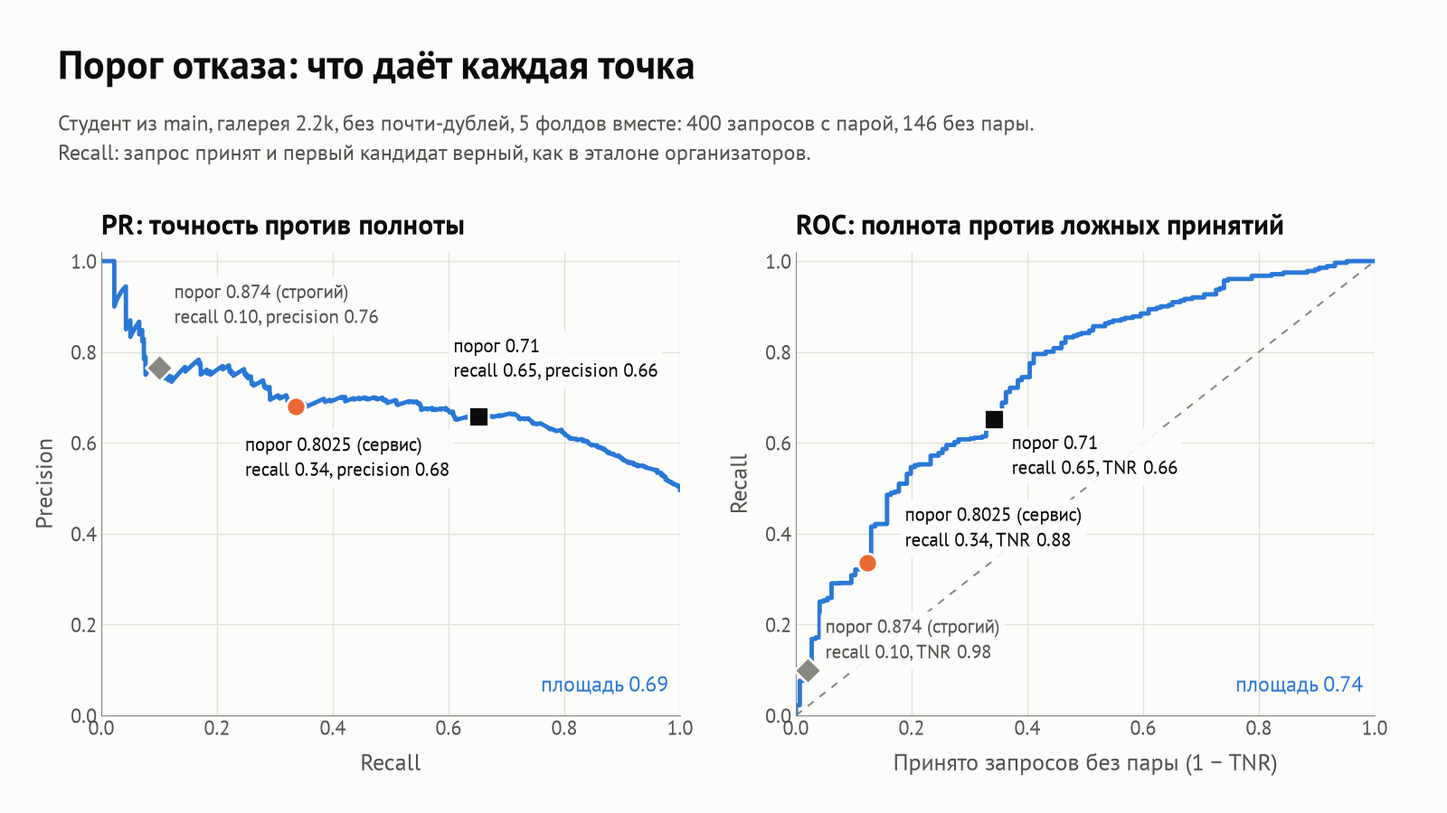
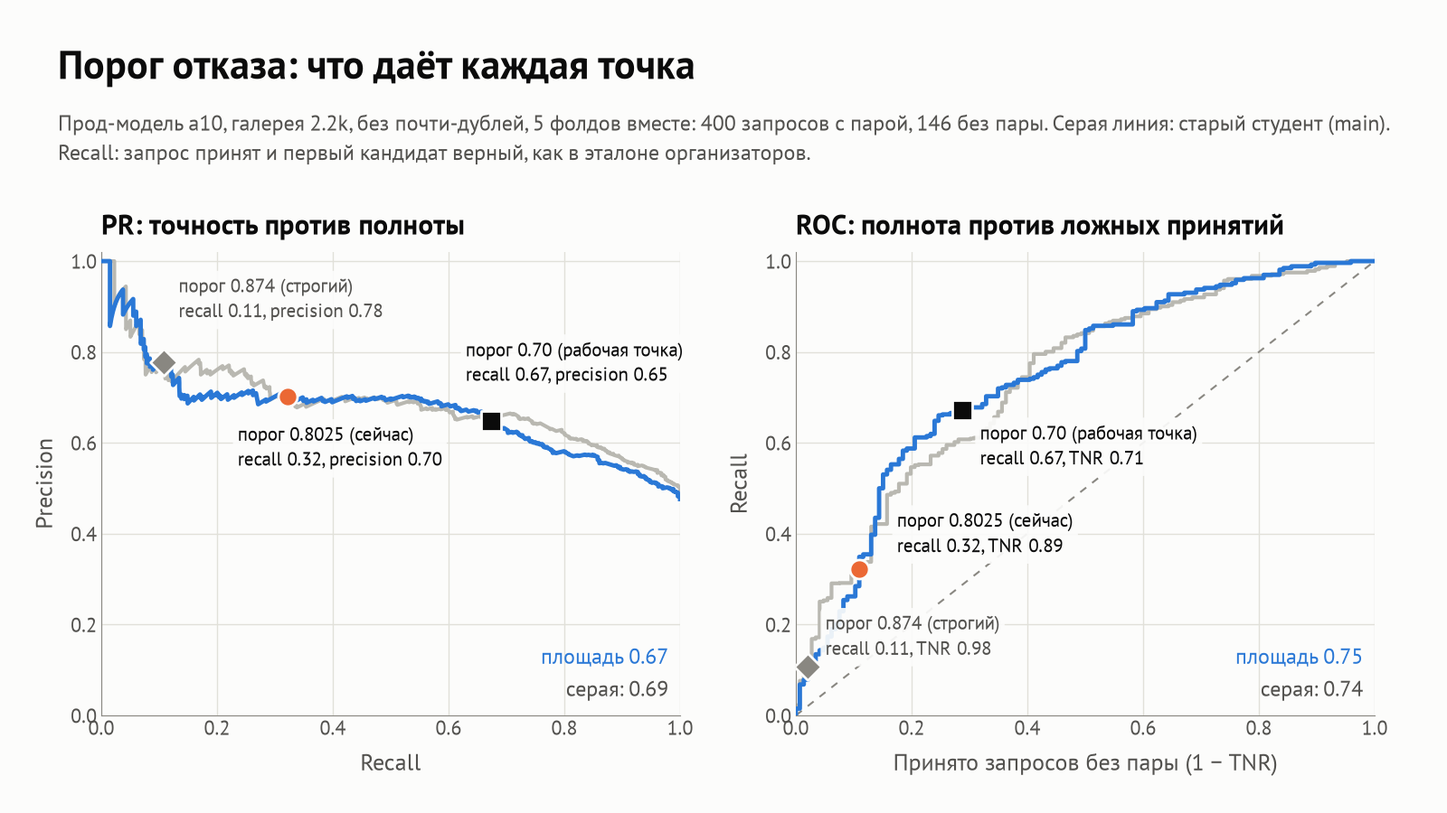
honest-eval: рабочая точка отказа a10, слайд и PR/ROC под a10 (пункт 2)
refusal_curves.py: --label, --point ПОРОГ=ПОДПИСЬ, вторая модель серой
линией (--baseline-label/--baseline-env); без параметров результат прежний
(точки старого студента совпали с прошлым JSON).

refusal_pr_roc.png — a10, старый студент серой линией: 0.8025 — recall
0.32 / TNR 0.89; 0.70 (рабочая точка) — 0.67 / 0.71; 0.874 — 0.11 / 0.98.
slides.md: слайд 4 — прод-модель a10 (порог вне фолда 0.700 ± 0.050,
на 0.70 recall 0.672 / TNR 0.711, у старого 0.691 / 0.632; на 10.8k тот же
порог даёт TNR 0.298). HONEST_EVAL.md: итоги a10.

diff --git a/research/refusal_curves.py b/research/refusal_curves.py
@@ -5,9 +5,13 @@
 семантика эталона, TP = принят И верхний кандидат верный, TNR — по запросам
 без пары. ROC: по горизонтали доля принятых запросов без пары (1 − TNR), по
 вертикали recall. Кривые и точки посчитаны по всем фолдам сразу; средние по
-фолдам — в honest_eval_results/refusal_folds.json.
+фолдам — в honest_eval_results/refusal_folds*.json.
 
+    # студент из main, точки 0.8025 / 0.71 / 0.874
     python research/refusal_curves.py --data-dir /opt/case17/data
+    # другая модель, свои точки, старый студент серой линией
+    python research/refusal_curves.py --data-dir <данные> --env REID_WEIGHTS=<веса> --label "a10" \\
+        --point "0.8025=порог 0.8025 (сейчас)" --point "0.70=порог 0.70" --baseline-label "старый студент (main)"
 """
 import argparse
 import json
@@ -26,12 +30,11 @@ import honest_eval as he  # noqa: E402
 import service_embeddings as se  # noqa: E402
 
 SURFACE, INK, INK2, MUTED, GRID = "#fcfcfb", "#0b0b0b", "#52514e", "#898781", "#e1e0d9"
-CURVE, NOW = "#2a78d6", "#eb6834"
+CURVE, NOW, BASE = "#2a78d6", "#eb6834", "#b9b8b1"
 FONT = "PT Sans"
-# порог, подпись, цвет, маркер, сдвиг подписи на PR и на ROC (точки экрана)
-POINTS = ((0.8025, "порог 0.8025 (сервис)", NOW, "o", (-40, -22), (30, 8)),
-          (0.71, "порог 0.71", INK, "s", (-20, 26), (14, -10)),
-          (0.874, "порог 0.874 (строгий)", MUTED, "D", (12, 30), (14, 4)))
+DEFAULT_POINTS = ("0.8025=порог 0.8025 (сервис)", "0.71=порог 0.71", "0.874=порог 0.874 (строгий)")
+# цвет, маркер и сдвиг подписи на PR и на ROC (точки экрана) — по порядку точек
+STYLE = ((NOW, "o", (-40, -22), (30, 8)), (INK, "s", (-20, 26), (14, -10)), (MUTED, "D", (12, 30), (14, 4)))
 
 
 def curve(rec: dict) -> list:
@@ -44,11 +47,30 @@ def area(x, y) -> float:
     return float(np.trapezoid(np.asarray(y)[order], np.asarray(x)[order]))
 
 
+def records(a) -> dict:
+    D = he.Data(a)
+    recs = crf.fold_records(D, a.distractors, "nodup")
+    crf.self_check(recs, 0.8025)
+    return crf.merge(recs), len(recs)
+
+
+def arrays(rec: dict) -> tuple:
+    pts = curve(rec)
+    r, p, t = (np.array([x[k] for x in pts], dtype="float64") for k in ("recall", "precision", "TNR"))
+    return r, p, 1 - t
+
+
 def main() -> int:
     ap = argparse.ArgumentParser()
     ap.add_argument("--data-dir", type=Path, required=True)
     ap.add_argument("--distractors", default="test_all", choices=tuple(he.DISTRACTORS))
     ap.add_argument("--out", type=Path, default=HERE / "honest_eval_results" / "refusal_pr_roc.png")
+    ap.add_argument("--label", default="Студент из main", help="как назвать модель в заголовке")
+    ap.add_argument("--point", action="append", default=None, metavar="ПОРОГ=ПОДПИСЬ",
+                    help=f"точка на кривых, до трёх; по умолчанию {DEFAULT_POINTS}")
+    ap.add_argument("--baseline-label", default=None,
+                    help="нарисовать вторую модель серой линией (окружение — профиль + --baseline-env)")
+    ap.add_argument("--baseline-env", action="append", default=[], help="KEY=VAL для серой модели")
     ap.add_argument("--holdout", type=Path, default=HERE / "val_ids.txt")
     ap.add_argument("--exclude-frames", type=Path, default=HERE / "honest_eval_results" / "holdout_frame_dups.txt")
     ap.add_argument("--folds", type=int, default=5)
@@ -64,29 +86,38 @@ def main() -> int:
     ap.add_argument("--one-query-per-camera", action="store_true")
     ap.add_argument("--cache-dir", type=Path, default=se.DEFAULT_CACHE)
     a = ap.parse_args()
+    specs = []
+    for kv in a.point or DEFAULT_POINTS:
+        thr, _, label = kv.partition("=")
+        specs.append((float(thr), label or f"порог {thr}"))
+    if len(specs) > len(STYLE):
+        ap.error(f"не больше {len(STYLE)} точек")
 
-    D = he.Data(a)
-    recs = crf.fold_records(D, a.distractors, "nodup")
-    crf.self_check(recs, 0.8025)
-    rec = crf.merge(recs)
-    pts = curve(rec)
-    rec_, prec, tnr = (np.array([p[k] for p in pts], dtype="float64") for k in ("recall", "precision", "TNR"))
-    fpr = 1 - tnr
-    roc_auc = area(fpr, rec_)
-    pr_auc = area(rec_[1:], prec[1:])           # без точки «ничего не принято»: precision там не определён
-    marks = {t: crf.metrics(rec, t) for t, *_ in POINTS}
+    rec, n_folds = records(a)
+    rec_, prec, fpr = arrays(rec)
+    roc_auc, pr_auc = area(fpr, rec_), area(rec_[1:], prec[1:])   # PR без точки «ничего не принято»
+    base = None
+    if a.baseline_label:
+        b = argparse.Namespace(**{**vars(a), "env": a.baseline_env})
+        brec, _ = records(b)
+        br, bp, bf = arrays(brec)
+        base = {"label": a.baseline_label, "r": br, "p": bp, "f": bf,
+                "ROC_area": area(bf, br), "PR_area": area(br[1:], bp[1:])}
+    marks = {t: crf.metrics(rec, t) for t, _ in specs}
     n_pos, n_neg = int(rec["has_match"].sum()), int((~rec["has_match"]).sum())
 
     fig = plt.figure(figsize=(16, 9), dpi=100, facecolor=SURFACE)
     fig.text(0.04, 0.94, "Порог отказа: что даёт каждая точка", fontsize=32, color=INK, family=FONT,
              weight="bold", va="top")
-    fig.text(0.04, 0.865, f"Студент из main, галерея 2.2k, без почти-дублей, 5 фолдов вместе: {n_pos} запросов "
-             f"с парой, {n_neg} без пары.\nRecall: запрос принят и первый кандидат верный, как в эталоне "
+    tail = f" Серая линия: {base['label']}." if base else ""
+    fig.text(0.04, 0.865, f"{a.label}, галерея 2.2k, без почти-дублей, {n_folds} фолдов вместе: {n_pos} запросов "
+             f"с парой, {n_neg} без пары.{tail}\nRecall: запрос принят и первый кандидат верный, как в эталоне "
              "организаторов.", fontsize=17, color=INK2, family=FONT, va="top", linespacing=1.4)
-    panels = (("PR: точность против полноты", rec_[1:], prec[1:], "Recall", "Precision", f"площадь {pr_auc:.2f}"),
+    panels = (("PR: точность против полноты", rec_[1:], prec[1:], "Recall", "Precision", pr_auc,
+               (base["r"][1:], base["p"][1:], base["PR_area"]) if base else None),
               ("ROC: полнота против ложных принятий", fpr, rec_, "Принято запросов без пары (1 − TNR)",
-               "Recall", f"площадь {roc_auc:.2f}"))
-    for k, (title, x, y, xl, yl, auc) in enumerate(panels):
+               "Recall", roc_auc, (base["f"], base["r"], base["ROC_area"]) if base else None))
+    for k, (title, x, y, xl, yl, auc, b) in enumerate(panels):
         ax = fig.add_axes([0.07 + k * 0.48, 0.12, 0.4, 0.57])
         ax.set_facecolor(SURFACE)
         ax.grid(color=GRID, linewidth=1)
@@ -100,15 +131,20 @@ def main() -> int:
             lab.set_family(FONT)
         if k == 1:
             ax.plot([0, 1], [0, 1], color=MUTED, lw=1.5, ls=(0, (4, 4)))
-        ax.plot(x, y, color=CURVE, lw=3.5, drawstyle="steps-post" if k == 1 else "default")
+        if b:
+            ax.plot(b[0], b[1], color=BASE, lw=3, drawstyle="steps-post" if k == 1 else "default", zorder=2)
+        ax.plot(x, y, color=CURVE, lw=3.5, drawstyle="steps-post" if k == 1 else "default", zorder=3)
         ax.set_xlim(0, 1.0)
         ax.set_ylim(0, 1.02)
         ax.set_xlabel(xl, fontsize=19, color=INK2, family=FONT, labelpad=10)
         ax.set_ylabel(yl, fontsize=19, color=INK2, family=FONT, labelpad=10)
         ax.set_title(title, fontsize=22, color=INK, family=FONT, weight="bold", loc="left", pad=14)
-        ax.text(0.98, 0.04, auc, transform=ax.transAxes, fontsize=17, color=CURVE, family=FONT,
-                ha="right", va="bottom")
-        for t, label, color, marker, off_pr, off_roc in POINTS:
+        ax.text(0.98, 0.1 if b else 0.04, f"площадь {auc:.2f}", transform=ax.transAxes, fontsize=17, color=CURVE,
+                family=FONT, ha="right", va="bottom")
+        if b:
+            ax.text(0.98, 0.03, f"серая: {b[2]:.2f}", transform=ax.transAxes, fontsize=17, color=INK2,
+                    family=FONT, ha="right", va="bottom")
+        for (t, label), (color, marker, off_pr, off_roc) in zip(specs, STYLE):
             m = marks[t]
             px, py = (m["recall"], m["precision"]) if k == 0 else (1 - m["TNR"], m["recall"])
             ax.scatter([px], [py], s=230, color=color, marker=marker, zorder=5, edgecolor=SURFACE, linewidth=2)
@@ -121,10 +157,14 @@ def main() -> int:
     a.out.parent.mkdir(parents=True, exist_ok=True)
     fig.savefig(a.out, dpi=100, facecolor=SURFACE)
     plt.close(fig)
-    summary = {"mode": "nodup", "distractors": a.distractors, "pooled_folds": len(recs), "queries_with_pair": n_pos,
-               "queries_without_pair": n_neg, "PR_area": round(pr_auc, 4), "ROC_area": round(roc_auc, 4),
+    summary = {"model": a.label, "mode": "nodup", "distractors": a.distractors, "pooled_folds": n_folds,
+               "queries_with_pair": n_pos, "queries_without_pair": n_neg,
+               "PR_area": round(pr_auc, 4), "ROC_area": round(roc_auc, 4),
                "points": {str(t): {k: (round(v, 4) if isinstance(v, float) else v) for k, v in marks[t].items()}
-                          for t, *_ in POINTS}}
+                          for t, _ in specs}}
+    if base:
+        summary["baseline"] = {"label": base["label"], "PR_area": round(base["PR_area"], 4),
+                               "ROC_area": round(base["ROC_area"], 4)}
     a.out.with_suffix(".json").write_text(json.dumps(summary, ensure_ascii=False, indent=2), encoding="utf-8")
     print(json.dumps(summary, ensure_ascii=False, indent=2))
     print(f"-> {a.out} ({a.out.stat().st_size / 1e6:.2f} МБ)")

diff --git a/research/honest_eval_slides.py b/research/honest_eval_slides.py
@@ -138,17 +138,22 @@ def slides(pts: list) -> str:
     sc = load("score_contract.json")
     leak = load("leak_audit.json")
     err = load("error_breakdown.json")
-    ref = load("refusal_folds.json")["modes"]["nodup"]
-    roc = load("refusal_pr_roc.json")
+    ref = load("refusal_folds_a10.json")["modes"]["nodup"]           # прод-модель a10
+    ref_old = load("refusal_folds_student_rk.json")["modes"]["nodup"]  # студент из main, те же точки
+    roc = load("refusal_pr_roc.json")                                  # a10, старый — серой линией
+    prod = load("honest_eval_a10_suite.json")["suite"]
+    grid = load("knn_grid_a10.json")["rows"]["raw"]
     sub = {g["group"]: g for g in err["subgroups"]}
     means = lambda c: {k: v["mean"] for k, v in c.items()}           # среднее по фолдам
     svc_off = means(sc["modes"]["official"]["contracts"]["service (raw, 0.8025)"])
     svc_nod = means(sc["modes"]["nodup"]["contracts"]["service (raw, 0.8025)"])
     mixed = means(sc["modes"]["nodup"]["contracts"]["mixed (CSLS, 0.8025)"])
     art = means(sc["modes"]["nodup"]["contracts"]["artifacts (CSLS, 10-й процентиль)"])
-    cur = ref["current"]["сбалансированный 0.8025"]
-    t6, t7 = ref["targets"]["recall>=0.6"], ref["targets"]["recall>=0.7"]
-    p71, p80 = roc["points"]["0.71"], roc["points"]["0.8025"]
+    cur, cur_old = ref["current"]["сбалансированный 0.8025"], ref_old["current"]["сбалансированный 0.8025"]
+    t65, t7 = ref["targets"]["recall>=0.65"], ref["targets"]["recall>=0.7"]
+    work, work_old = ref["current"]["рабочая точка 0.70"], ref_old["current"]["рабочая точка 0.70"]
+    p70, p80 = roc["points"]["0.7"], roc["points"]["0.8025"]
+    p10 = lambda key, v="raw": prod[key]["metrics"][v]["official"]["mAP@10"]
     old = st["old_protocol"]
     ec = err["errors_by_category"]
     n_f = err["errors"]
@@ -163,7 +168,8 @@ def slides(pts: list) -> str:
     return "\n".join([
         "# Слайды: честная валидация", "",
         "Числа подставлены из файлов `research/honest_eval_results/` скриптом "
-        "`research/honest_eval_slides.py`; модель — студент из `main`, сырой косинус, если не сказано иначе.", "",
+        "`research/honest_eval_slides.py`; слайды 1–3 — студент из `main` (его мерили эксперты), слайд 4 — "
+        "прод-модель a10; сырой косинус, если не сказано иначе.", "",
         "## 1. Честная валидация", "",
         f"- Метрики считает эталон организаторов без правок: junk — та же машина с той же камеры, "
         f"AP@10 нормирован на min(позитивов, 10).",
@@ -211,19 +217,26 @@ def slides(pts: list) -> str:
         "выше порога 0.8025.", "",
         "Картинки (номера закрыты): `honest_eval_results/error_examples/fail_1_twin.png`, "
         "`fail_2_front_rear.png`, `fail_4_night.png`, `fail_5_glare.png`", "",
-        "## 4. Рабочая точка отказа", "",
-        f"- Сейчас 0.8025: recall {f3(cur['recall']['mean'])}, TNR {f3(cur['TNR']['mean'])} (2.2k без почти-дублей, "
-        f"среднее {cur['recall']['n']} фолдов).",
-        f"- Порог, выбранный на одном фолде и проверенный на остальных: recall ≥ 0.6 → "
-        f"{f3(t6['threshold']['mean'])} ± {f3(t6['threshold']['std'])} (TNR {f3(t6['TNR']['mean'])}); "
-        f"recall ≥ 0.7 → {f3(t7['threshold']['mean'])} ± {f3(t7['threshold']['std'])} (TNR {f3(t7['TNR']['mean'])}).",
-        f"- Выбранная точка 0.71, между ними: recall {f2(p71['recall'])}, TNR {f2(p71['TNR'])}, precision "
-        f"{f2(p71['precision'])}. По тем же запросам (все фолды вместе) у 0.8025 recall {f2(p80['recall'])}, "
-        f"TNR {f2(p80['TNR'])}: найденных машин в {p71['recall'] / p80['recall']:.1f} раза больше ценой "
-        f"{f2(p80['TNR'] - p71['TNR'])} TNR.",
-        "- Порог привязан к модели: для прод-модели a10 точку пересчитать той же командой "
-        "(`scripts/prod_model_check.sh`, a10 ещё не промерен).", "",
-        "Картинка: `honest_eval_results/refusal_pr_roc.png`", ""])
+        "## 4. Рабочая точка отказа (прод-модель a10)", "",
+        f"- a10 по ранжированию на уровне старого студента: mAP@10 raw 2.2k {f3(p10('2.2k (+ весь тест)')['mean'])}, "
+        f"10.8k {f3(p10('10.8k (+ тест и обучающие)')['mean'])} (у старого {f3(big['raw']['official']['mAP@10']['mean'])} "
+        f"и {f3(last['map'])}). Сейчас 0.8025: recall {f3(cur['recall']['mean'])}, TNR {f3(cur['TNR']['mean'])} "
+        f"(2.2k без почти-дублей, среднее {cur['recall']['n']} фолдов; у старого {f3(cur_old['recall']['mean'])} / "
+        f"{f3(cur_old['TNR']['mean'])}).",
+        f"- Порог вне фолда (выбран на одном фолде, проверен на остальных): recall ≥ 0.65 → "
+        f"{f3(t65['threshold']['mean'])} ± {f3(t65['threshold']['std'])} (TNR {f3(t65['TNR']['mean'])}); "
+        f"recall ≥ 0.7 → {f3(t7['threshold']['mean'])} ± {f3(t7['threshold']['std'])} (TNR {f3(t7['TNR']['mean'])}). "
+        "Рабочая точка — 0.70: в полосе recall 0.65–0.70 у неё выше TNR.",
+        f"- На 0.70: recall {f3(work['recall']['mean'])}, TNR {f3(work['TNR']['mean'])} (у старого студента на том же "
+        f"пороге {f3(work_old['recall']['mean'])} / {f3(work_old['TNR']['mean'])}). По всем фолдам вместе против "
+        f"0.8025: recall {f2(p70['recall'])} против {f2(p80['recall'])}, в {p70['recall'] / p80['recall']:.1f} раза "
+        f"больше найденных машин ценой {f2(p80['TNR'] - p70['TNR'])} TNR.",
+        f"- Порог зависит от размера галереи: на 10.8k тот же 0.70 даёт TNR {f3(grid['10.8k']['TNR'])} "
+        f"(`knn_grid_a10.md`, строка raw), 0.8025 — "
+        f"{f3(prod['10.8k (+ тест и обучающие)']['metrics']['raw']['nodup']['TNR']['mean'])}. Для прода порог "
+        "проверять на галерее его размера.", "",
+        "Картинка: `honest_eval_results/refusal_pr_roc.png` (a10, старый студент — серой линией); таблица — "
+        "`honest_eval_results/prod_a10.md`", ""])
 
 
 def main() -> int:

diff --git a/research/HONEST_EVAL.md b/research/HONEST_EVAL.md
@@ -60,8 +60,8 @@ PYTHON=<python окружения> scripts/prod_model_check.sh <данные> ~/
 совпадения не считает. Дальше: сюита raw и kr, отказ на 2.2k без почти-дублей
 вне фолда (0.8025, recall ≥ 0.6 и ≥ 0.7), таблица рядом со старым студентом
 (`honest_eval_report.py --prod`). `-n` — только сверить и показать команды.
-17.10 файла `clean_student_a10_ep28.pt` локально нет (в `clean_student.zip` его
-тоже нет), a10 пока не промерен.
+Прод-модель a10 промерена 17.10 (sha256 совпал): `prod_a10.md`; сетка knn для
+неё — `knn_grid_a10.md` (`python research/knn_grid.py ...`).
 
 ### Как Андрею сравнить raw и KNN одной командой
 
@@ -121,9 +121,10 @@ python research/honest_eval.py --data-dir <данные> --suite --post raw,knn 
   **recall 0.34 / TNR 0.88** (2.2k), 0.35 / 0.58 (10.8k).
 - **Порог вне фолда (2.2k, без почти-дублей):** recall ≥ 0.6 → порог
   0.726 ± 0.041, TNR 0.735; recall ≥ 0.7 → 0.689 ± 0.044, TNR 0.623. На 0.71 —
-  recall 0.65 / TNR 0.66 / precision 0.66 (`refusal_pr_roc.png`). Предложение для
-  защиты — рабочая точка около 0.72 вместо 0.8025; решение и правка
-  `.env.example` за Глебом.
+  recall 0.65 / TNR 0.66 / precision 0.66 (все фолды вместе; `refusal_pr_roc.png`
+  теперь нарисован для a10, старый студент на нём серой линией). Для прод-модели
+  a10 рабочая точка — 0.70 (ниже, `prod_a10.md`); решение и правка `.env.example`
+  за Глебом.
 - **Score-контракт.** Порог 0.8025 — для сырого косинуса. На CSLS-скоре
   `candidates.csv` (максимум на тесте 0.506) он отказывает всем: recall 0,
   TNR 1 (`score_contract.md`). Это прямой путь к «recall < 10 %».
@@ -140,7 +141,13 @@ python research/honest_eval.py --data-dir <данные> --suite --post raw,knn 
   чёрные машины 0.536 против 0.939 у цветных. Мелкая рамка не проблема (3 %).
 - **Новый студент clean a25** (`clean_student_check.md`): по сырому косинусу не
   лучше старого (2.2k 0.693, 10.8k 0.545), с rerank чуть лучше (0.820, 0.761).
-  Выбранный командой a10 не промерен: файла не было, Максим меряет сам.
+- **Прод-модель clean a10** (`prod_a10.md`): ранжирование на уровне старого
+  студента (raw 2.2k 0.687 против 0.704, 8996 0.563 против 0.553, 10.8k 0.549
+  против 0.559 — в пределах разброса фолдов). Рабочая точка отказа a10 — порог
+  0.70 (цель recall ≥ 0.65 вне фолда: 0.700 ± 0.050): recall 0.672, TNR 0.711 на
+  2.2k без почти-дублей; при 0.8025 — 0.323 / 0.889. На 10.8k тот же порог даёт
+  TNR 0.298: порог надо проверять на галерее размера прода. knn (k ∈ {2, 3, 5},
+  α ∈ {1, 3}) на a10 не помогает ни в одной клетке (`knn_grid_a10.md`).
 
 ## Воспроизводимость (`scripts/check_reproducibility.sh`)
 

diff --git a/research/honest_eval_results/slides.md b/research/honest_eval_results/slides.md
@@ -1,6 +1,6 @@
 # Слайды: честная валидация
 
-Числа подставлены из файлов `research/honest_eval_results/` скриптом `research/honest_eval_slides.py`; модель — студент из `main`, сырой косинус, если не сказано иначе.
+Числа подставлены из файлов `research/honest_eval_results/` скриптом `research/honest_eval_slides.py`; слайды 1–3 — студент из `main` (его мерили эксперты), слайд 4 — прод-модель a10; сырой косинус, если не сказано иначе.
 
 ## 1. Честная валидация
 
@@ -29,11 +29,11 @@
 
 Картинки (номера закрыты): `honest_eval_results/error_examples/fail_1_twin.png`, `fail_2_front_rear.png`, `fail_4_night.png`, `fail_5_glare.png`
 
-## 4. Рабочая точка отказа
+## 4. Рабочая точка отказа (прод-модель a10)
 
-- Сейчас 0.8025: recall 0.340, TNR 0.877 (2.2k без почти-дублей, среднее 5 фолдов).
-- Порог, выбранный на одном фолде и проверенный на остальных: recall ≥ 0.6 → 0.726 ± 0.041 (TNR 0.735); recall ≥ 0.7 → 0.689 ± 0.044 (TNR 0.623).
-- Выбранная точка 0.71, между ними: recall 0.65, TNR 0.66, precision 0.66. По тем же запросам (все фолды вместе) у 0.8025 recall 0.34, TNR 0.88: найденных машин в 1.9 раза больше ценой 0.22 TNR.
-- Порог привязан к модели: для прод-модели a10 точку пересчитать той же командой (`scripts/prod_model_check.sh`, a10 ещё не промерен).
+- a10 по ранжированию на уровне старого студента: mAP@10 raw 2.2k 0.687, 10.8k 0.549 (у старого 0.704 и 0.559). Сейчас 0.8025: recall 0.323, TNR 0.889 (2.2k без почти-дублей, среднее 5 фолдов; у старого 0.340 / 0.877).
+- Порог вне фолда (выбран на одном фолде, проверен на остальных): recall ≥ 0.65 → 0.700 ± 0.050 (TNR 0.703); recall ≥ 0.7 → 0.691 ± 0.045 (TNR 0.668). Рабочая точка — 0.70: в полосе recall 0.65–0.70 у неё выше TNR.
+- На 0.70: recall 0.672, TNR 0.711 (у старого студента на том же пороге 0.691 / 0.632). По всем фолдам вместе против 0.8025: recall 0.67 против 0.32, в 2.1 раза больше найденных машин ценой 0.18 TNR.
+- Порог зависит от размера галереи: на 10.8k тот же 0.70 даёт TNR 0.298 (`knn_grid_a10.md`, строка raw), 0.8025 — 0.618. Для прода порог проверять на галерее его размера.
 
-Картинка: `honest_eval_results/refusal_pr_roc.png`
+Картинка: `honest_eval_results/refusal_pr_roc.png` (a10, старый студент — серой линией); таблица — `honest_eval_results/prod_a10.md`
